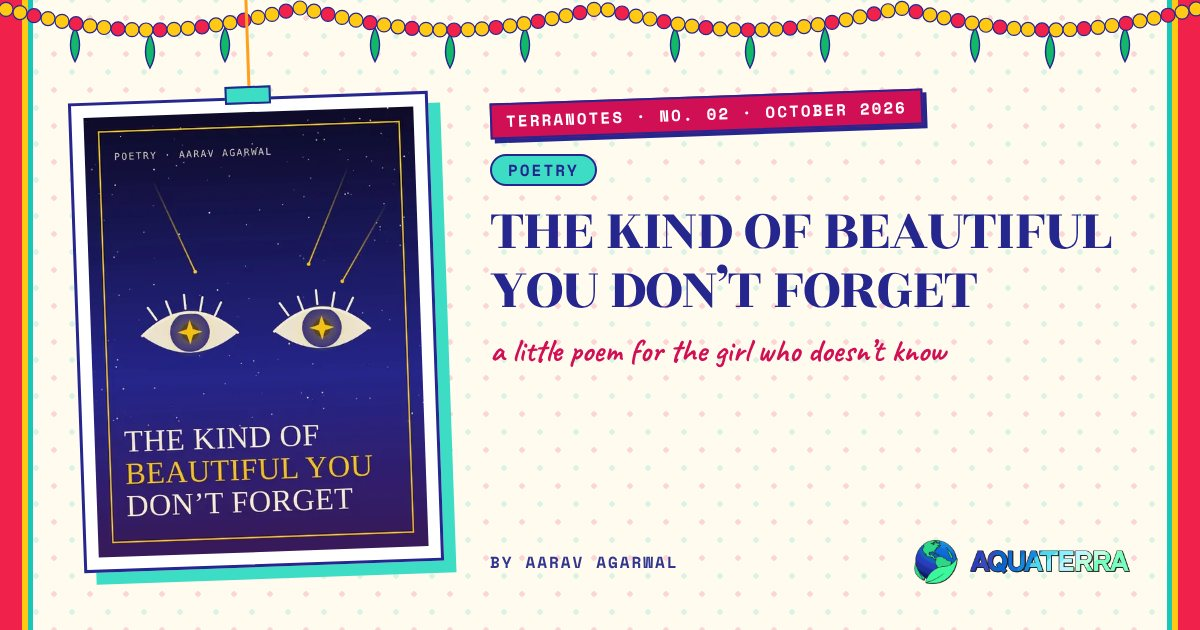
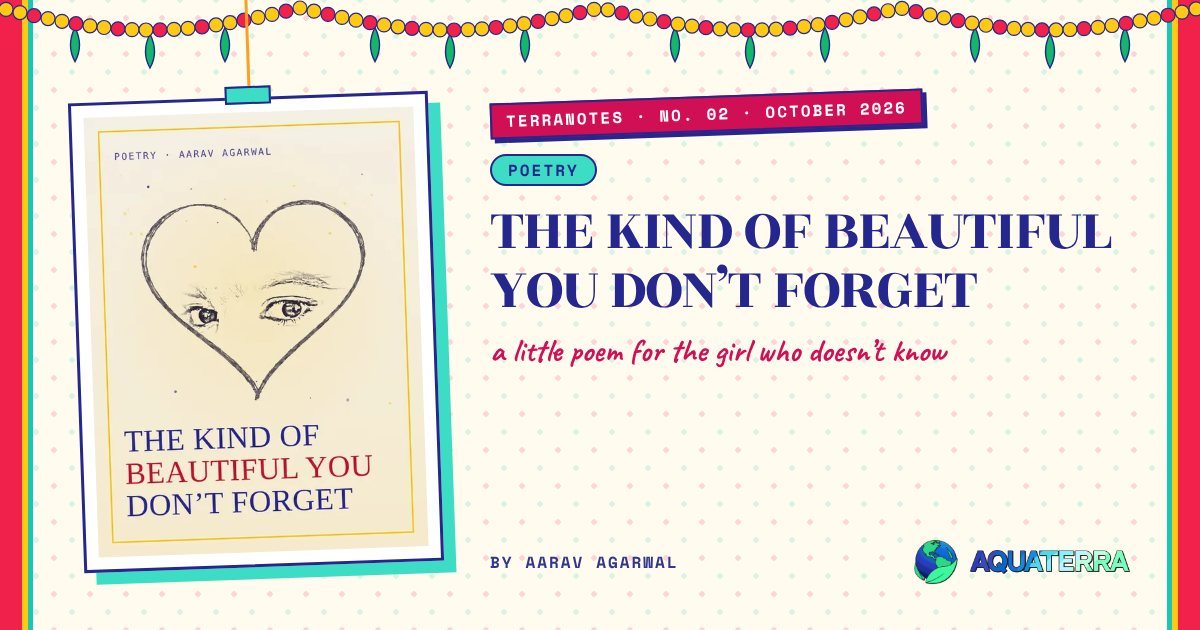
Aarav's poem: a pencil sketch of her eyes inside a heart, drawn straight on its cover
What Aarav asked for ("draw my heart and her eyes"): the sketch is a see-through layer (tools/art/oct26/,
made from a photo; only the drawing is kept) laid straight on a cream cover with the marigold frame,
tag · writer and title, no paper print. kit.mjs drawing() places a picture with no mat (print() uses it).
New WebP copies and link preview; alt text and docs to match.

Claude-Session: https://claude.ai/code/session_01JJ7DDSYoAJJLu1s6gMc7xF

Changed region(s): [[0.0617, 0.1508, 0.37, 0.9048]]

diff --git a/src/editions/oct26/articles.js b/src/editions/oct26/articles.js
@@ -19,7 +19,7 @@ export const TAGS = {
 // The writers' pieces, as they sent them (a poem keeps its line breaks, \n, inside each stanza; numbered headings keep
 // their words, the page numbers them). The deks and cover descriptions are the editors'. The covers are made by
 // tools/art/oct26.mjs in one poster style: Whispers in the Weave and Kolkata As We Know It frame the team's artwork,
-// the others are drawn.
+// Aarav's poem has a pencil sketch drawn straight on (what Aarav asked for), the others are drawn.
 export const ARTICLES = [
   {
     slug: "whispers-in-the-weave",
@@ -132,7 +132,7 @@ export const ARTICLES = [
     title: "the kind of beautiful you don’t forget",
     dek: "a little poem for the girl who doesn’t know",
     cover: '/editions/oct26/articles/the-kind-of-beautiful-you-dont-forget/cover.jpg',
-    alt: "two eyes under a night sky, a star caught in each, with shooting stars falling",
+    alt: "a pencil sketch of her eyes inside a heart",
     author: "Aarav Agarwal",
     date: 'Oct 2026',
     readTime: '1',

diff --git a/CLAUDE.md b/CLAUDE.md
@@ -219,7 +219,7 @@ and its A/B/C marks a dhunuchi, a lantern and a firework (`Dhunuchi.jsx`, `WORDS
 legend (`DhakPlayers.jsx`, `TEAM_NOTE`), and Buddy's games are re-dressed (`games.js`, `GAME_SKIN`; their names in
 `data/games.js`): Snake is Durga Maa chasing demon faces with a marigold garland for a tail, Fling a bow and arrow at
 demon faces. The illustrations' own colours are in its `look.js` `art`. Pujo, Diwali and festive-feeling words; the
-writers' six articles (covers in one poster style: two frame the team's artwork, four are drawn) and eight photos (seven of them drawn stand-ins). A new edition starts from a copy of the newest look and changes the values; its own CSS and
+writers' six articles (covers in one poster style: two frame the team's artwork, Aarav's poem has a pencil sketch of her eyes in a heart drawn straight on, three are drawn) and eight photos (seven of them drawn stand-ins). A new edition starts from a copy of the newest look and changes the values; its own CSS and
 doodles are registered in `src/editions/pages.js` (`EDITION_CSS`, `DECOR`, `TEAM_NOTE` for a secret by the team legend: under it on web, beside it on phones; `HANGERS`, `WALL_DECOR`, `WORDS_ART` and `GAME_SKIN` to dress the article wire, the photo wall, the words game and Buddy's games; `LAYOUT` switches on newer layouts of the shared home sections per edition, so older ones keep theirs: copy the newest edition's entry).
 Use the variables, nothing else (the look lists a few more, for the photo wall, dark panels and details).
 
